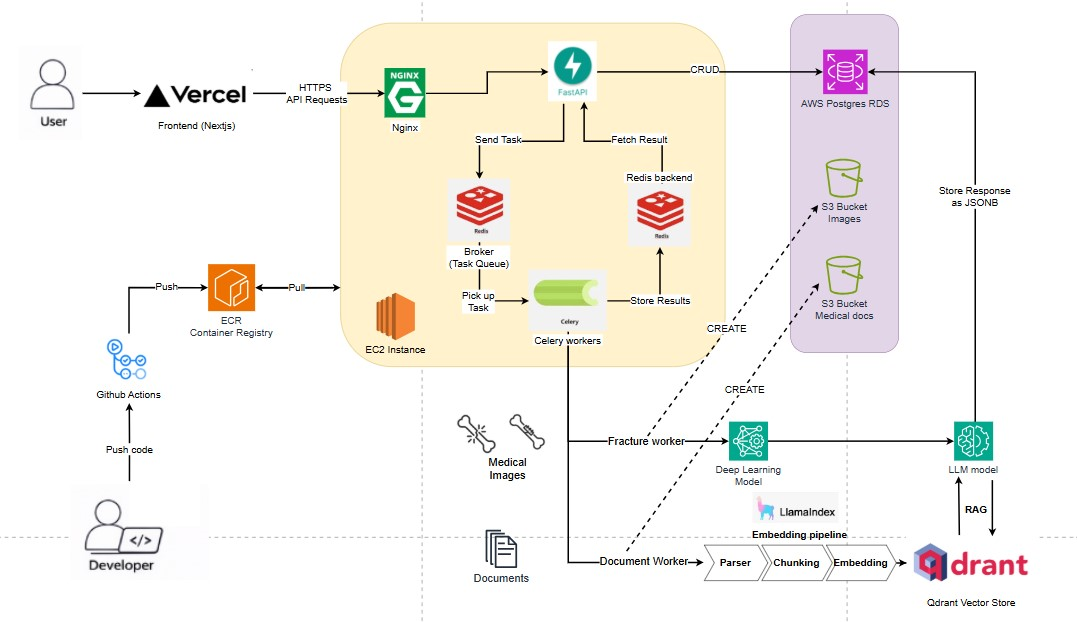
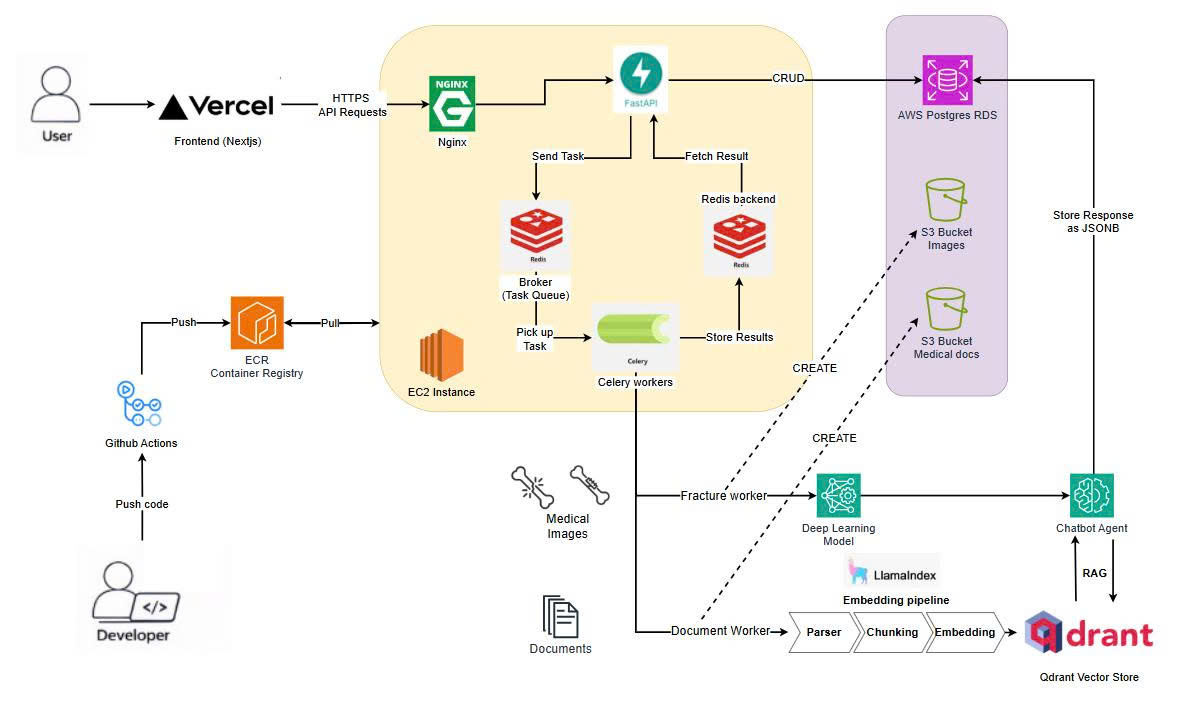
update README

diff --git a/README.md b/README.md
@@ -20,6 +20,7 @@
 - [Overview](#overview)
 - [Features](#features)
 - [Architecture](#architecture)
+- [Chatbot](#chatbot)
 - [Tech Stack](#tech-stack)
 
 ---
@@ -61,6 +62,20 @@ This platform bridges theoretical medical education with practical diagnostic sk
 
 ---
 
+## 💬 Chatbot
+
+The chatbot answers student questions using a LangGraph pipeline with three steps:
+
+1. **Classify** — decides if the question needs the knowledge base (RAG) or is just casual chat
+2. **Retrieve** — if needed, runs hybrid search (dense + BM25) over the document store, fuses results with RRF, then reranks with Cohere
+3. **Generate** — combines retrieved context and conversation memory to write the answer
+
+Conversation memory is kept in Redis for recent turns, and older turns get summarized and stored so the chatbot stays aware of context without unbounded growth.
+
+The pipeline is instrumented with **LangSmith** tracing, so every step (classify, retrieve, generate) is logged and can be inspected to catch bad outputs and debug the pipeline.
+
+![Chatbot Architecture](assets/chatbot.jpg)
+
 ## 🛠 Tech Stack
 
 ### Backend
@@ -70,7 +85,7 @@ This platform bridges theoretical medical education with practical diagnostic sk
 - **Celery** — background task processing for AI workloads
 - **SQLAlchemy + Alembic** — ORM and database migrations
 - **PyTorch + YOLOv8** — bone fracture detection model
-- **LangChain + LangGraph** — conversational AI and agent framework
+- **LangChain + LangGraph + LangSmith** — conversational AI and agent framework
 - **LlamaIndex** — RAG pipeline for document processing
 - **Qdrant** — vector database for document embeddings
 - **AWS S3** — object storage for images and documents
@@ -156,7 +171,7 @@ uvicorn main:app --reload --host 0.0.0.0 --port 8000
 Start the Celery worker (separate terminal):
 
 ```bash
-celery -A celery_app worker --loglevel=info -Q fracture_queue,document_queue --concurrency=2
+celery -A celery_app worker --loglevel=info -Q fracture_queue,document_queue,memory_queue --pool=solo
 ```
 
 Backend is available at: http://localhost:8000
